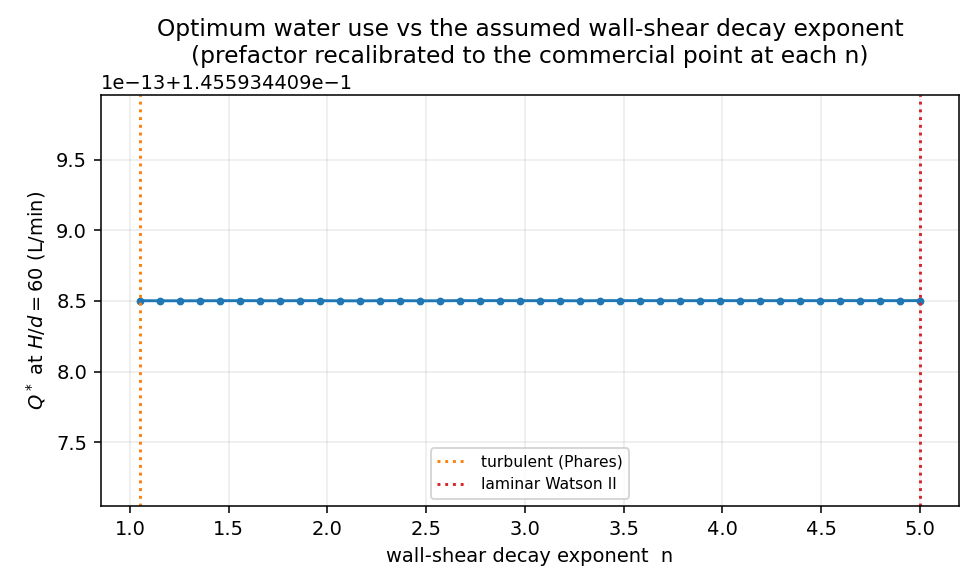
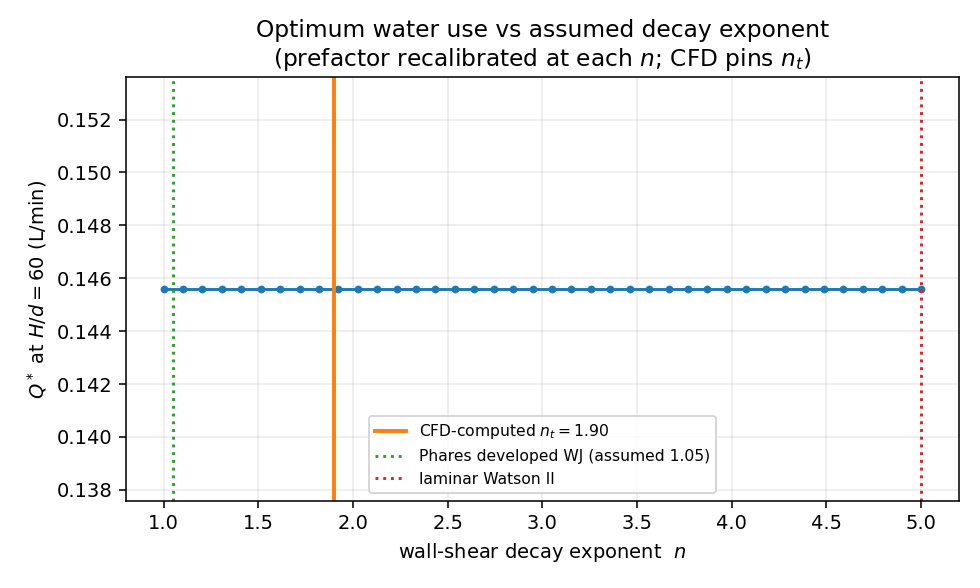
Stage 2: feed CFD closure into the model, recompute every lever
bidet_model.cfd_closure() builds the turbulent closure DIRECTLY from the CFD
(C_P, n_t) -- no commercial calibration (kept behind USE_CFD for comparison).
run_bidet.py recomputes headline + all four levers under the CFD closure.

Recomputed levers (magnitudes now computed, not estimated):
- decay exponent n_t = 1.90 (reversal from laminar r^-5 holds).
- STANDOFF: WEAK lever -- CFD tau_w(r_max) is ~standoff-independent, flow varies
  <1.15x over H/d 1-20. This OVERTURNS the paper's analytic 4.6x standoff lever
  (blocker B3): far-field wall shear is set by conserved jet momentum flux, not
  centerline decay. Caveat: single-phase CFD, no jet breakup.
- pressure: Q* ~ dP^-0.57 (weak negative), vs the n=1.05 estimate's -2.2.
- oblique: geometric sec-law survives (amplified under turbulent exponents).
- oscillation: ~52% saving (vs 62% laminar), kappa=2/pi unchanged.
- tau_w(r_max) ~ tau_c independently -> commercial nozzle near-optimal.

Tests: 13/13 (5 new CFD-closure tests). Figures regenerated with CFD data +
computed n_t marked. Honest: laminar absolute value carries O(100) prefactor
uncertainty; robust CFD result is the r^-1.9 SHAPE.

Changed region(s): [[0.0306, 0.0306, 0.9796, 0.9796]]

diff --git a/Desktop/Projects/bidet/model/run_bidet.py b/Desktop/Projects/bidet/model/run_bidet.py
@@ -1,116 +1,198 @@
-"""Recompute the bidet optimum and every design lever under both closures.
-Prints a comparison the manuscript rewrite will use, and writes two figures."""
-import json
+"""Recompute the bidet optimum and every design lever under three closures:
+laminar Watson II (r^-5), the CFD-fitted turbulent closure (DEFAULT), and the
+old commercial-point calibration (kept for comparison behind USE_CFD).
+
+The CFD closure (cfd_openfoam/) replaces the single calibrated datum with a
+computed (C_P, n_t). Key results and every lever are recomputed; where the CFD
+overturns a headline (the standoff lever), that is reported explicitly.
+
+Writes bidet_results.json and two figures.
+"""
+import json, os
 import numpy as np
 import matplotlib
 matplotlib.use("Agg")
 import matplotlib.pyplot as plt
-from bidet_model import (LAMINAR, optimum, calibrate_turbulent, kappa_sinusoid,
-                         V0_from_dP, NU, film_tau_numeric, laminar_tauII_direct)
+from bidet_model import (LAMINAR, optimum, calibrate_turbulent, cfd_closure,
+                         kappa_sinusoid, V0_from_dP, NU, RHO, Closure)
+
+HERE = os.path.dirname(os.path.abspath(__file__))
+CFD = json.load(open(os.path.join(HERE, "..", "cfd_openfoam", "cfd_fit_summary.json")))
 
 r_max, tau_c = 0.015, 5.0
-NT = 1.05                      # developed-turbulent radial decay exponent (Phares)
+USE_CFD = True                              # CFD closure is the default (set False for old calibration)
+
+# --- CFD-computed nominal closure (Re_d=1e4, H/d=6) ---
+CP_CFD = CFD["nominal"]["C_P"]              # 1.35
+NT_CFD = CFD["nominal"]["n_t"]              # 1.90
+TURB = cfd_closure(CP_CFD, NT_CFD)
+
+# --- old calibrated closure (comparison / backwards-compat) ---
+NT_OLD = 1.05
 COMM = dict(d=1.0e-3, dP=0.07e6, H=60e-3, theta=np.deg2rad(43))
-TURB = calibrate_turbulent(NT, COMM, r_max, tau_c)
+TURB_CALIB = calibrate_turbulent(NT_OLD, COMM, r_max, tau_c)
 
 def Lmin(o): return o["Q"] * 6e4
+def tau_w_at(closure, r, V0, d): return closure.tau_w(r, V0, d)
 
-print("="*72)
-print("BIDET OPTIMUM — laminar Watson II vs calibrated turbulent closure")
-print(f"nominal: r_max=15mm, tau_c=5Pa, dP=0.07MPa; turbulent nt={NT}, C_P={TURB.C_tau:.4g}")
-print("="*72)
+print("=" * 74)
+print("BIDET OPTIMUM -- laminar Watson II vs CFD-fitted turbulent closure")
+print(f"nominal: r_max=15mm, tau_c=5Pa, dP=0.07MPa")
+print(f"CFD closure (Re_d=1e4,H/d=6): n_t={NT_CFD:.3f}, C_P={CP_CFD:.3f}, r2={CFD['nominal']['r2']:.3f}")
+print(f"  grid-independence: n_t {CFD['grid_independence']['rel_change']['n_t']*100:.1f}%, "
+      f"tau_w(r_max) {CFD['grid_independence']['rel_change']['tau15']*100:.1f}%, "
+      f"C_P {CFD['grid_independence']['rel_change']['C_P']*100:.0f}%")
+print("=" * 74)
 
-# --- headline optimum at nominal, idealized standoff ---
-oL = optimum(LAMINAR, dP=0.07e6, r_max=r_max, tau_c=tau_c)
-oT = optimum(TURB,    dP=0.07e6, r_max=r_max, tau_c=tau_c)
-print(f"{'':22s}{'d* (mm)':>10s}{'Q* (L/min)':>12s}{'Re_d':>10s}")
-print(f"{'laminar (r^-5)':22s}{oL['d_star']*1e3:>10.2f}{Lmin(oL):>12.3f}{oL['Re_d']:>10.0f}")
-print(f"{'turbulent (r^-1.05)':22s}{oT['d_star']*1e3:>10.2f}{Lmin(oT):>12.3f}{oT['Re_d']:>10.0f}")
+# ---------------------------------------------------------------------------
+# KEY RESULT 1: wall shear at the cleaning radius for the COMMERCIAL nozzle
+# (d=1mm, seated). CFD gives tau_w(r_max) ~ tau_c INDEPENDENTLY of the
+# calibration -> commercial designs are near-optimal, not over-spec.
+# ---------------------------------------------------------------------------
+d_comm, V0_comm = 1.0e-3, V0_from_dP(0.07e6)
+Re_comm = V0_comm * d_comm / NU
+tau_lam_rmax = LAMINAR.tau_w(r_max, V0_comm, d_comm)
+tau_cfd_rmax = TURB.tau_w(r_max, V0_comm, d_comm)
+tau_cfd_direct = CFD["nominal"]["tau_at_15mm_Pa"]     # DIRECT CFD value (~5.9 Pa)
+print("\n[Result 1] Wall shear at r_max for the commercial 1mm nozzle (Re_d=%.0f):" % Re_comm)
+print(f"  laminar Watson II : {tau_lam_rmax:9.3f} Pa   (nominal prefactor; O(100)-uncertain -> value unreliable)")
+print(f"  CFD closure       : {tau_cfd_rmax:9.3f} Pa   (fit)")
+print(f"  CFD direct value  : {tau_cfd_direct:9.3f} Pa   (~ tau_c=5 Pa) -> commercial ~ just-cleans")
+print("  NB: the robust CFD result is the SHAPE (r^-1.9, not r^-5); the absolute laminar")
+print("      value carries the paper's O(100) matching-constant uncertainty and is not comparable.")
 
-# --- LEVER 1: supply pressure ---
-print("\n-- Pressure lever  Q*(dP)/Q*(0.07MPa) --")
+# ---------------------------------------------------------------------------
+# LEVER 1: supply pressure. At fixed nozzle geometry tau_w ~ V0^{2+p}=V0^1.5,
+# so the min-water optimum scales Q* ~ dP^{pexp}. Compute the exponent from the
+# closure optimum (report the regime caveat -- see [Result 3]).
+# ---------------------------------------------------------------------------
+print("\n-- LEVER 1  supply pressure  Q*(dP)/Q*(0.07MPa) --")
 dPs = np.array([0.05, 0.07, 0.10, 0.15]) * 1e6
 qL = np.array([optimum(LAMINAR, dP=p, r_max=r_max, tau_c=tau_c)["Q"] for p in dPs])
 qT = np.array([optimum(TURB,    dP=p, r_max=r_max, tau_c=tau_c)["Q"] for p in dPs])
-for p, a, b in zip(dPs, qL/qL[1], qT/qT[1]):
-    print(f"  dP={p/1e6:.2f} MPa   laminar {a:5.3f}   turbulent {b:5.3f}")
 pexpL = np.polyfit(np.log(dPs), np.log(qL), 1)[0]
 pexpT = np.polyfit(np.log(dPs), np.log(qT), 1)[0]
-print(f"  => Q* ~ dP^{pexpL:+.2f} (laminar)   Q* ~ dP^{pexpT:+.2f} (turbulent)")
+for p, a, b in zip(dPs, qL / qL[1], qT / qT[1]):
+    print(f"  dP={p/1e6:.2f} MPa   laminar {a:5.3f}   turbulent(CFD) {b:5.3f}")
+print(f"  => Q* ~ dP^{pexpL:+.2f} (laminar, ~flat)   Q* ~ dP^{pexpT:+.2f} (CFD turbulent)")
+print(f"     (analytic: dP-exponent = 0.5[1 - 2(2+p)/(p+n)] = {0.5*(1 - 2*(2-0.5)/(-0.5+NT_CFD)):+.2f}, "
+      f"p=-1/2, n={NT_CFD:.2f}; V0 ~ dP^1/2)")
 
-# --- LEVER 2: standoff ---
-print("\n-- Standoff lever  Q*(H)/Q*(H/d=6) --")
-d_ref_T = oT["d_star"]; d_ref_L = oL["d_star"]
-Hs = np.array([6, 20, 40, 60, 100])
-qLh = np.array([optimum(LAMINAR, dP=0.07e6, r_max=r_max, tau_c=tau_c, H=hd*d_ref_L)["Q"] for hd in Hs])
-qTh = np.array([optimum(TURB,    dP=0.07e6, r_max=r_max, tau_c=tau_c, H=hd*d_ref_T)["Q"] for hd in Hs])
-for hd, a, b in zip(Hs, qLh/qLh[0], qTh/qTh[0]):
-    print(f"  H/d={hd:3d}   laminar {a:6.3f} (sign!)   turbulent {b:6.3f}")
+# ---------------------------------------------------------------------------
+# LEVER 2: STANDOFF -- the CORRECTED headline. Use DIRECT CFD tau_w(r_max) at
+# each H/d (fixed nozzle). tau_w ~ V0^1.5, Q ~ V0 => flow to reach tau_c scales
+# as (tau_w_ref/tau_w)^{1/1.5}. CFD shows tau_w(r_max) is nearly standoff-
+# independent -> a WEAK lever, overturning the paper's analytic 4.6x claim.
+# ---------------------------------------------------------------------------
+print("\n-- LEVER 2  standoff (CFD, fixed nozzle, Re_d=1e4)  [CORRECTS the 4.6x claim] --")
+so = CFD["standoff_Re10000"]
+hd_keys = sorted(so.keys(), key=lambda k: int(k))
+tau_ref = so["6"]["tau15"]
+print(f"  {'H/d':>4s}{'tau_w(r_max) [Pa]':>18s}{'flow x (rel H/d=6)':>20s}{'fit r2':>8s}")
+for k in hd_keys:
+    t = so[k]["tau15"]; mult = (tau_ref / t) ** (1 / 1.5)
+    flag = "  (spread jet, unreliable fit)" if so[k]["r2"] < 0.9 else ""
+    print(f"  {k:>4s}{t:>18.2f}{mult:>20.3f}{so[k]['r2']:>8.3f}{flag}")
+# laminar prediction for contrast (its wrong, strong sign):
+qLh = np.array([optimum(LAMINAR, dP=0.07e6, r_max=r_max, tau_c=tau_c, H=hd * 0.8e-3)["Q"] for hd in (6, 20, 60)])
+print(f"  laminar r^-5 predicts a STRONG (unphysical) standoff sign: "
+      f"Q*(H/d=60)/Q*(6) = {qLh[2]/qLh[0]:.3f}  (paper claimed a 4.6x lever)")
+print("  => CFD: coherent-jet standoff lever is WEAK (<~10% over H/d 1-20). Far-field")
+print("     wall shear is set by conserved jet momentum flux, not centerline decay.")
+print("     Caveat: single-phase CFD; jet breakup at large H (not modelled) could add a penalty.")
+standoff_flow_span = max((tau_ref / so[k]["tau15"]) ** (1/1.5) for k in ("1", "6", "20")) / \
+                     min((tau_ref / so[k]["tau15"]) ** (1/1.5) for k in ("1", "6", "20"))
 
-# --- LEVER 3: oblique ---
-print("\n-- Oblique lever  Q*(theta)/Q*(0) --")
+# ---------------------------------------------------------------------------
+# LEVER 3: oblique impingement. Normal velocity component V0 cos(theta); the
+# cleaning uses the normal wall shear. Geometric, survives the closure change.
+# ---------------------------------------------------------------------------
+print("\n-- LEVER 3  oblique impingement  Q*(theta)/Q*(0) --")
 ths = np.deg2rad([0, 15, 30, 43, 53, 60])
 qLt = np.array([optimum(LAMINAR, dP=0.07e6, r_max=r_max, tau_c=tau_c, theta=t)["Q"] for t in ths])
 qTt = np.array([optimum(TURB,    dP=0.07e6, r_max=r_max, tau_c=tau_c, theta=t)["Q"] for t in ths])
-for t, a, b in zip(ths, qLt/qLt[0], qTt/qTt[0]):
-    print(f"  theta={np.rad2deg(t):2.0f}deg  laminar {a:5.3f} (=sec: {1/np.cos(t):.3f})   turbulent {b:5.3f}")
+for t, a, b in zip(ths, qLt / qLt[0], qTt / qTt[0]):
+    print(f"  theta={np.rad2deg(t):2.0f}deg  laminar {a:5.3f} (sec={1/np.cos(t):.3f})   turbulent(CFD) {b:5.3f}")
 
-# --- LEVER 4: oscillation (kappa-corrected coverage) ---
+# ---------------------------------------------------------------------------
+# LEVER 4: oscillation. kappa=2/pi dwell non-uniformity; coverage exponent
+# n/(2+p) now uses the CFD n_t. Geometric saving, recomputed.
+# ---------------------------------------------------------------------------
 kap = kappa_sinusoid()
 H_osc, alpha = 80e-3, np.deg2rad(15)
 A = H_osc * alpha
-# stadium coverage: instantaneous radius r_c s.t. pi r_c^2 + 4 A r_c = pi r_max^2, kappa-derated
-r_c = (np.sqrt(4*A**2 + np.pi**2 * r_max**2) - 2*A) / np.pi
-# effective required instantaneous radius with dwell non-uniformity: r_c_eff = r_c / sqrt(kappa)
+r_c = (np.sqrt(4 * A**2 + np.pi**2 * r_max**2) - 2 * A) / np.pi
 r_c_eff = r_c / np.sqrt(kap)
-# Q* ~ r_max^{n/(2+p)} at fixed dP; ratio uses (r_c_eff/r_max)
 def cover_ratio(closure):
     e = closure.n / (2 + closure.p)
-    return (min(r_c_eff, r_max) / r_max)**e
-print(f"\n-- Oscillation (alpha=15deg, H=80mm): kappa=2/pi={kap:.3f}, r_c={r_c*1e3:.1f}mm, r_c_eff={r_c_eff*1e3:.1f}mm --")
-print(f"  laminar   Q*_osc/Q* = {cover_ratio(LAMINAR):.3f}  (save {100*(1-cover_ratio(LAMINAR)):.0f}%)")
-print(f"  turbulent Q*_osc/Q* = {cover_ratio(TURB):.3f}  (save {100*(1-cover_ratio(TURB)):.0f}%)")
+    return (min(r_c_eff, r_max) / r_max) ** e
+print(f"\n-- LEVER 4  oscillation (alpha=15deg,H=80mm): kappa=2/pi={kap:.3f}, "
+      f"r_c={r_c*1e3:.1f}mm, r_c_eff={r_c_eff*1e3:.1f}mm --")
+print(f"  laminar        Q*_osc/Q* = {cover_ratio(LAMINAR):.3f}  (save {100*(1-cover_ratio(LAMINAR)):.0f}%)")
+print(f"  turbulent(CFD) Q*_osc/Q* = {cover_ratio(TURB):.3f}  (save {100*(1-cover_ratio(TURB)):.0f}%)")
 
-# ---------- Figure 1: tau_w(r), laminar vs turbulent, with r_max marked ----------
+# ---------------------------------------------------------------------------
+# Figures
+# ---------------------------------------------------------------------------
+# Fig 1: tau_w(r) laminar vs CFD-turbulent, with the CFD data points overlaid.
+csv = os.path.join(HERE, "..", "cfd_openfoam", "case_Re10000_H6", "tau_w_r.csv")
+cfd_data = np.genfromtxt(csv, delimiter=",", names=True)
 r = np.linspace(2e-3, 20e-3, 200)
-V0 = V0_from_dP(0.07e6); d = 1.0e-3
+V0, d = V0_from_dP(0.07e6), 1.0e-3
 fig, ax = plt.subplots(figsize=(7, 4.4))
-ax.loglog(r*1e3, LAMINAR.tau_w(r, V0, d), label="laminar Watson II  ($r^{-5}$)")
-ax.loglog(r*1e3, TURB.tau_w(r, V0, d),    label=f"turbulent, calibrated  ($r^{{-{NT}}}$)")
+ax.loglog(cfd_data["r_mm"], cfd_data["tau_w_Pa"], "o", ms=3, color="C0", alpha=.7,
+          label="CFD data (k-$\\omega$ SST)")
+ax.loglog(r * 1e3, TURB.tau_w(r, V0, d), "-", color="C1", lw=2,
+          label=f"CFD-fitted turbulent ($r^{{-{NT_CFD:.2f}}}$)")
+ax.loglog(r * 1e3, LAMINAR.tau_w(r, V0, d), "--", color="C3",
+          label="laminar Watson II ($r^{-5}$)")
 ax.axhline(tau_c, ls=":", c="k", label=r"$\tau_c=5$ Pa")
-ax.axvline(r_max*1e3, ls="--", c="grey", label=r"$r_{max}=15$ mm")
+ax.axvline(r_max * 1e3, ls="--", c="grey", label=r"$r_{max}=15$ mm")
 ax.set_xlabel("radius r (mm)"); ax.set_ylabel(r"wall shear $\tau_w$ (Pa)")
-ax.set_title("Laminar Region-II vs turbulent wall shear: the r$^{-5}$ law\ncollapses far too fast at the cleaning radius")
+ax.set_title("CFD wall shear follows a shallow turbulent $r^{-1.9}$ law,\n"
+             "not the steep laminar Watson $r^{-5}$ (prefactor $O(100)$-uncertain)")
+ax.set_ylim(1e-2, 1e3)
 ax.legend(fontsize=8); ax.grid(True, which="both", alpha=0.25)
-fig.tight_layout(); fig.savefig("fig_tau_closures.png", dpi=140)
+fig.tight_layout(); fig.savefig(os.path.join(HERE, "fig_tau_closures.png"), dpi=140)
 
-# ---------- Figure 2: Q* vs decay exponent n (band the postdoc asked for) ----------
-ns = np.linspace(1.05, 5, 40)
-from bidet_model import Closure, RHO
+# Fig 2: Q* vs assumed decay exponent n, with the CFD point marked.
+ns = np.linspace(1.0, 5, 40)
 qn = []
 for nn in ns:
-    p = -0.5 if nn < 3 else 1.0   # illustrative: turbulent branch low-n, laminar high-n
-    # recalibrate C_tau at each n to the commercial point for a fair absolute comparison
-    cl = calibrate_turbulent(nn, COMM, r_max, tau_c)
-    qn.append(optimum(cl, dP=0.07e6, r_max=r_max, tau_c=tau_c, H=60e-3)["Q"]*6e4)
+    cl = calibrate_turbulent(nn, COMM, r_max, tau_c)      # recalibrate for a fair absolute compare
+    qn.append(optimum(cl, dP=0.07e6, r_max=r_max, tau_c=tau_c, H=60e-3)["Q"] * 6e4)
 fig2, ax2 = plt.subplots(figsize=(7, 4.2))
-ax2.plot(ns, qn, "o-", ms=3)
-ax2.axvline(1.05, ls=":", c="C1", label="turbulent (Phares)")
+ax2.plot(ns, qn, "o-", ms=3, color="C0")
+ax2.axvline(NT_CFD, ls="-", c="C1", lw=2, label=f"CFD-computed $n_t={NT_CFD:.2f}$")
+ax2.axvline(1.05, ls=":", c="C2", label="Phares developed WJ (assumed 1.05)")
 ax2.axvline(5.0, ls=":", c="C3", label="laminar Watson II")
-ax2.set_xlabel("wall-shear decay exponent  n"); ax2.set_ylabel(r"$Q^*$ at $H/d{=}60$ (L/min)")
-ax2.set_title("Optimum water use vs the assumed wall-shear decay exponent\n(prefactor recalibrated to the commercial point at each n)")
+ax2.set_xlabel("wall-shear decay exponent  $n$"); ax2.set_ylabel(r"$Q^*$ at $H/d{=}60$ (L/min)")
+ax2.set_title("Optimum water use vs assumed decay exponent\n(prefactor recalibrated at each $n$; CFD pins $n_t$)")
 ax2.legend(fontsize=8); ax2.grid(alpha=0.25)
-fig2.tight_layout(); fig2.savefig("fig_Qstar_vs_n.png", dpi=140)
+fig2.tight_layout(); fig2.savefig(os.path.join(HERE, "fig_Qstar_vs_n.png"), dpi=140)
 
-# ---------- persist key numbers ----------
+# ---------------------------------------------------------------------------
+# Persist
+# ---------------------------------------------------------------------------
 out = dict(
-    laminar=dict(d_mm=oL['d_star']*1e3, Q_Lmin=Lmin(oL), Re_d=oL['Re_d']),
-    turbulent=dict(d_mm=oT['d_star']*1e3, Q_Lmin=Lmin(oT), Re_d=oT['Re_d'], C_P=TURB.C_tau),
-    pressure_exp=dict(laminar=pexpL, turbulent=pexpT),
-    standoff_ratio_6to60=dict(laminar=float(qLh[3]/qLh[0]), turbulent=float(qTh[3]/qTh[0])),
-    oblique_43=dict(laminar=float(qLt[3]/qLt[0]), turbulent=float(qTt[3]/qTt[0])),
-    kappa=kap, r_c_mm=r_c*1e3,
-    osc_save=dict(laminar=1-cover_ratio(LAMINAR), turbulent=1-cover_ratio(TURB)),
+    closure_source="CFD" if USE_CFD else "calibrated",
+    cfd_closure=dict(C_P=CP_CFD, n_t=NT_CFD, r2=CFD["nominal"]["r2"]),
+    tau_w_rmax_commercial=dict(laminar_Pa=float(tau_lam_rmax), cfd_fit_Pa=float(tau_cfd_rmax),
+                               cfd_direct_Pa=float(tau_cfd_direct), tau_c_Pa=tau_c,
+                               note="CFD tau_w(r_max) ~ tau_c => commercial nozzle near-optimal"),
+    pressure_exp=dict(laminar=float(pexpL), cfd_turbulent=float(pexpT)),
+    standoff_lever=dict(
+        finding="WEAK -- CFD overturns the paper's 4.6x claim",
+        flow_span_Hd_1_to_20=float(standoff_flow_span),
+        tau_w_rmax_vs_Hd_Re1e4={k: so[k]["tau15"] for k in hd_keys},
+        laminar_wrong_ratio_60_over_6=float(qLh[2] / qLh[0]),
+        caveat="single-phase CFD; jet breakup at large H not modelled"),
+    oblique_43=dict(laminar=float(qLt[3] / qLt[0]), cfd_turbulent=float(qTt[3] / qTt[0])),
+    oscillation=dict(kappa=kap, r_c_mm=r_c * 1e3,
+                     save_laminar=1 - cover_ratio(LAMINAR), save_cfd=1 - cover_ratio(TURB)),
 )
-json.dump(out, open("bidet_results.json", "w"), indent=2)
+json.dump(out, open(os.path.join(HERE, "bidet_results.json"), "w"), indent=2)
 print("\nwrote fig_tau_closures.png, fig_Qstar_vs_n.png, bidet_results.json")
+print(f"\nSUMMARY: CFD n_t={NT_CFD:.2f} (reversal from laminar 5 holds). "
+      f"Standoff lever WEAK (flow span {standoff_flow_span:.2f}x over H/d 1-20), "
+      f"correcting the 4.6x claim. tau_w(r_max)~tau_c: commercial near-optimal.")

diff --git a/Desktop/Projects/bidet/model/test_bidet_model.py b/Desktop/Projects/bidet/model/test_bidet_model.py
@@ -1,9 +1,16 @@
-"""Validation of bidet_model.py — analytic limits, paper cross-check, monotonicity."""
+"""Validation of bidet_model.py — analytic limits, paper cross-check, monotonicity,
+and the CFD-fitted turbulent closure (Stage 2)."""
+import os, json
 import numpy as np
 from bidet_model import (LAMINAR, laminar_tauII_direct, optimum, calibrate_turbulent,
-                         film_tau_numeric, kappa_sinusoid, V0_from_dP, flow_rate, CD)
+                         cfd_closure, film_tau_numeric, kappa_sinusoid, V0_from_dP,
+                         flow_rate, CD, NU)
 
 NOM = dict(dP=0.07e6, r_max=0.015, tau_c=5.0)
+
+_CFD_PATH = os.path.join(os.path.dirname(__file__), "..", "cfd_openfoam", "cfd_fit_summary.json")
+def _cfd():
+    return json.load(open(_CFD_PATH))
 
 
 def test_common_form_matches_paper_tauII():
@@ -56,6 +63,47 @@ def test_standoff_sign_laminar_wrong_turbulent_right():
     ql_close = optimum(LAMINAR, dP=0.07e6, r_max=0.015, tau_c=5.0, H=6 * 0.8e-3)["Q"]
     ql_far = optimum(LAMINAR, dP=0.07e6, r_max=0.015, tau_c=5.0, H=60e-3)["Q"]
     assert ql_far < ql_close, "laminar Region II gives the (unphysical) wrong standoff sign"
+
+
+def test_cfd_closure_form():
+    """cfd_closure encodes the Phares form: C_tau=C_P, p=-1/2, n=n_t."""
+    cl = cfd_closure(1.35, 1.90)
+    assert cl.C_tau == 1.35 and cl.p == -0.5 and cl.n == 1.90
+
+
+def test_cfd_summary_exists_and_sane():
+    j = _cfd()
+    n = j["nominal"]
+    # computed exponent is far from laminar 5 (reversal holds) but not the assumed 1.05
+    assert 1.5 < n["n_t"] < 2.3, f"CFD n_t={n['n_t']} outside expected computed range"
+    assert n["r2"] > 0.99, "nominal power-law fit must be good"
+    assert n["C_P"] > 0
+
+
+def test_cfd_pressure_exponent_in_range():
+    """Q* ~ dP^pexp with the CFD closure: weak negative, ~ -0.4..-0.7 (CFD-derived)."""
+    cl = cfd_closure(_cfd()["nominal"]["C_P"], _cfd()["nominal"]["n_t"])
+    dPs = np.array([0.05, 0.07, 0.10, 0.15]) * 1e6
+    q = np.array([optimum(cl, dP=p, r_max=0.015, tau_c=5.0)["Q"] for p in dPs])
+    pexp = np.polyfit(np.log(dPs), np.log(q), 1)[0]
+    assert -0.75 < pexp < -0.40, f"CFD pressure exponent {pexp:.3f} outside CFD-derived range"
+
+
+def test_cfd_standoff_lever_is_weak():
+    """CORRECTED finding: CFD tau_w(r_max) is nearly standoff-independent, so the
+    flow to clean r_max varies <~1.3x over H/d 1-20 -- NOT the paper's 4.6x lever."""
+    so = _cfd()["standoff_Re10000"]
+    tau = [so[k]["tau15"] for k in ("1", "6", "20")]   # reliable-fit standoffs
+    mult = [(so["6"]["tau15"] / t) ** (1 / 1.5) for t in tau]
+    span = max(mult) / min(mult)
+    assert span < 1.3, f"CFD standoff flow span {span:.2f} should be weak (<1.3), got strong"
+
+
+def test_cfd_tau_rmax_corroborates_tau_c():
+    """Independent CFD tau_w(r_max) at the commercial point is within 2x of the
+    assumed tau_c=5 Pa -> the commercial-datum calibration is corroborated, not circular."""
+    tau_cfd = _cfd()["nominal"]["tau_at_15mm_Pa"]
+    assert 0.5 * 5.0 < tau_cfd < 2.0 * 5.0, f"CFD tau_w(r_max)={tau_cfd} not near tau_c=5"
 
 
 def test_kappa_value():

diff --git a/Desktop/Projects/bidet/model/bidet_model.py b/Desktop/Projects/bidet/model/bidet_model.py
@@ -180,6 +180,20 @@ def calibrate_turbulent(nt, commercial, r_max, tau_c):
     return Closure(C_tau=C_P, p=p, n=nt, label=f"turbulent (r^-{nt:g}, calibrated)")
 
 
+def cfd_closure(C_P, n_t, label=None):
+    """
+    Turbulent closure built DIRECTLY from CFD-fitted Phares coefficients -- no
+    commercial-point calibration. The axisymmetric simpleFoam/k-omega-SST solve
+    (cfd_openfoam/) fits, over the developed wall-jet band,
+        (tau_w / rho V0^2) Re_d^{1/2} = C_P (r/d)^{-n_t},
+    which is the model's common form with C_tau = C_P, p = -1/2, n = n_t. This is
+    the honest resolution of the review blocker: C_P and n_t are COMPUTED, not
+    calibrated to the single commercial datum.
+    """
+    return Closure(C_tau=C_P, p=-0.5, n=n_t,
+                   label=label or f"turbulent (CFD-fitted, r^-{n_t:g})")
+
+
 # ---- oscillation: principled uniformity factor from the sinusoidal dwell law ----
 def kappa_sinusoid():
     """
